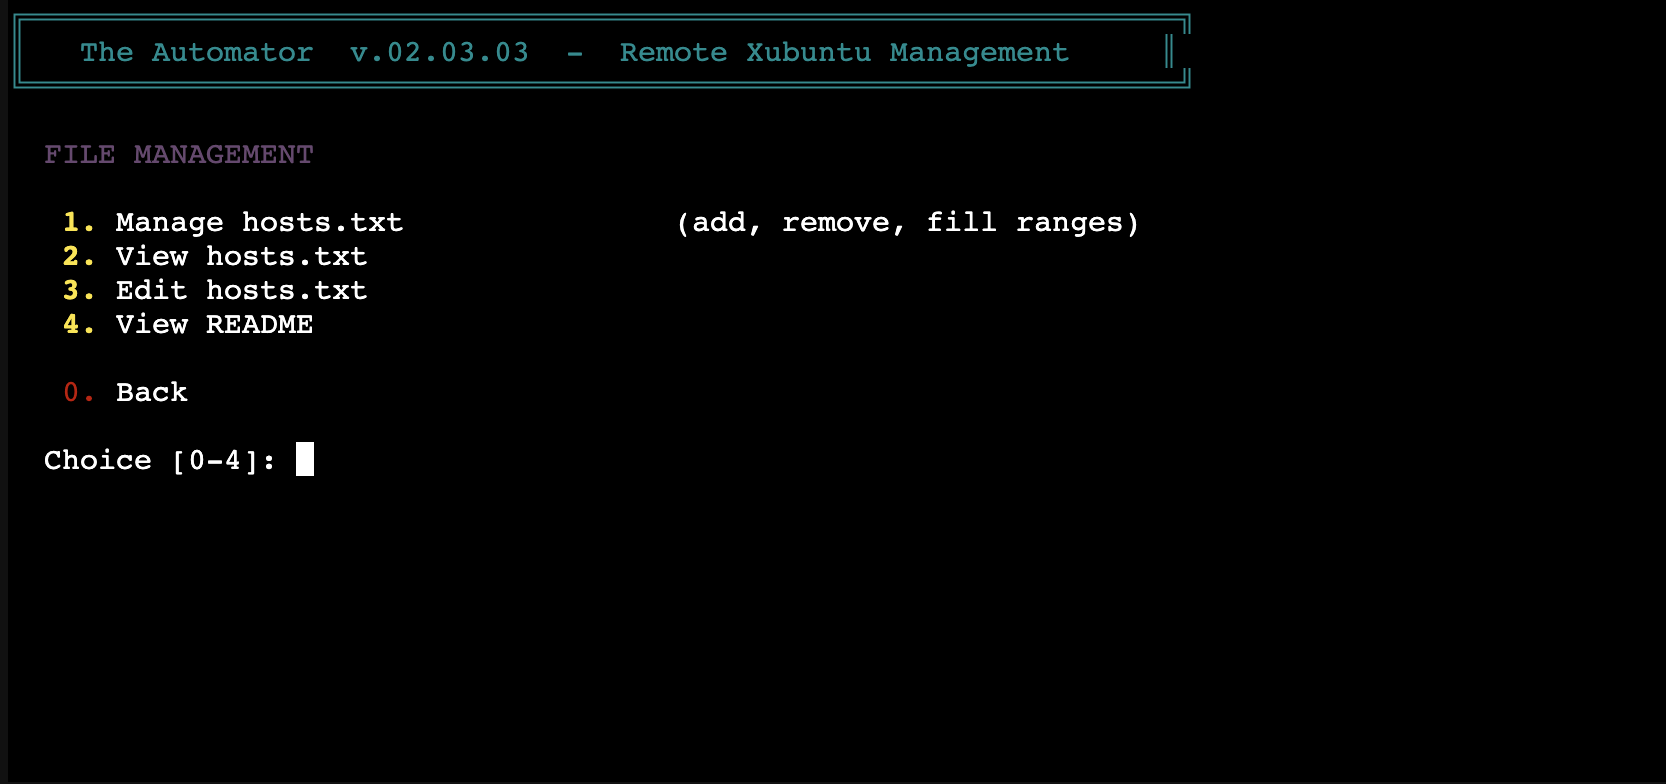
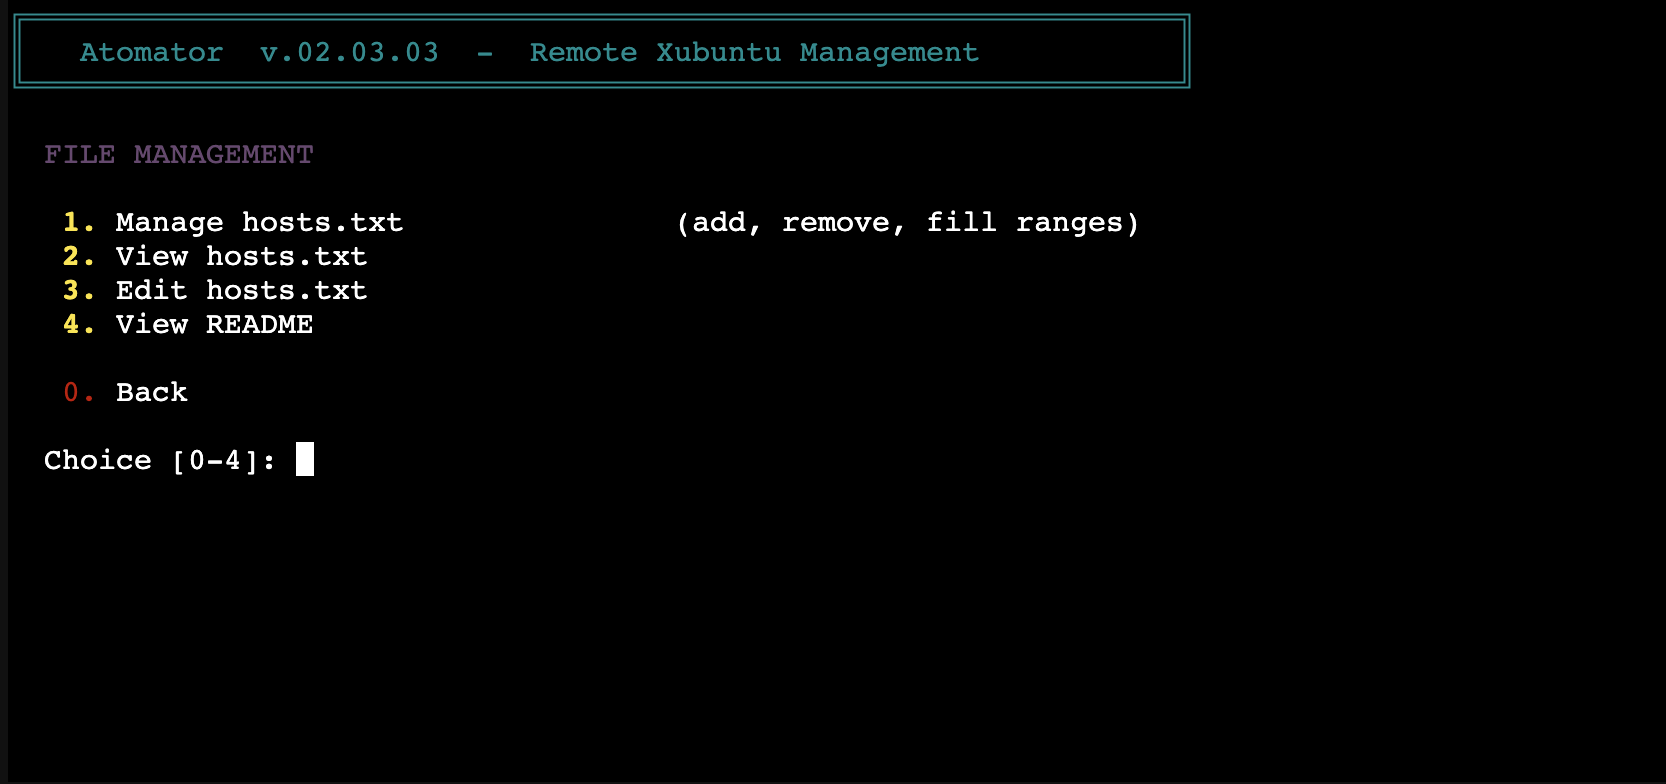
Update screenshots with Atomator branding, add main menu screenshot
Replaced all 8 submenu screenshots with new ones showing "Atomator"
header. Added 9th screenshot for the main menu in Menu Navigation section.

Changed region(s): [[0.0312, 0.0612, 0.6555, 0.0918], [0.6867, 0.0306, 0.7179, 0.0918]]

diff --git a/README.md b/README.md
@@ -148,6 +148,8 @@ Lines starting with `#` in `hosts.txt` are ignored (comments). Empty lines are s
 
 ## Menu Navigation
 
+![Main Menu](screenshots/menu_main.png)
+
 Start the menu:
 ```bash
 bash /root/start.sh
